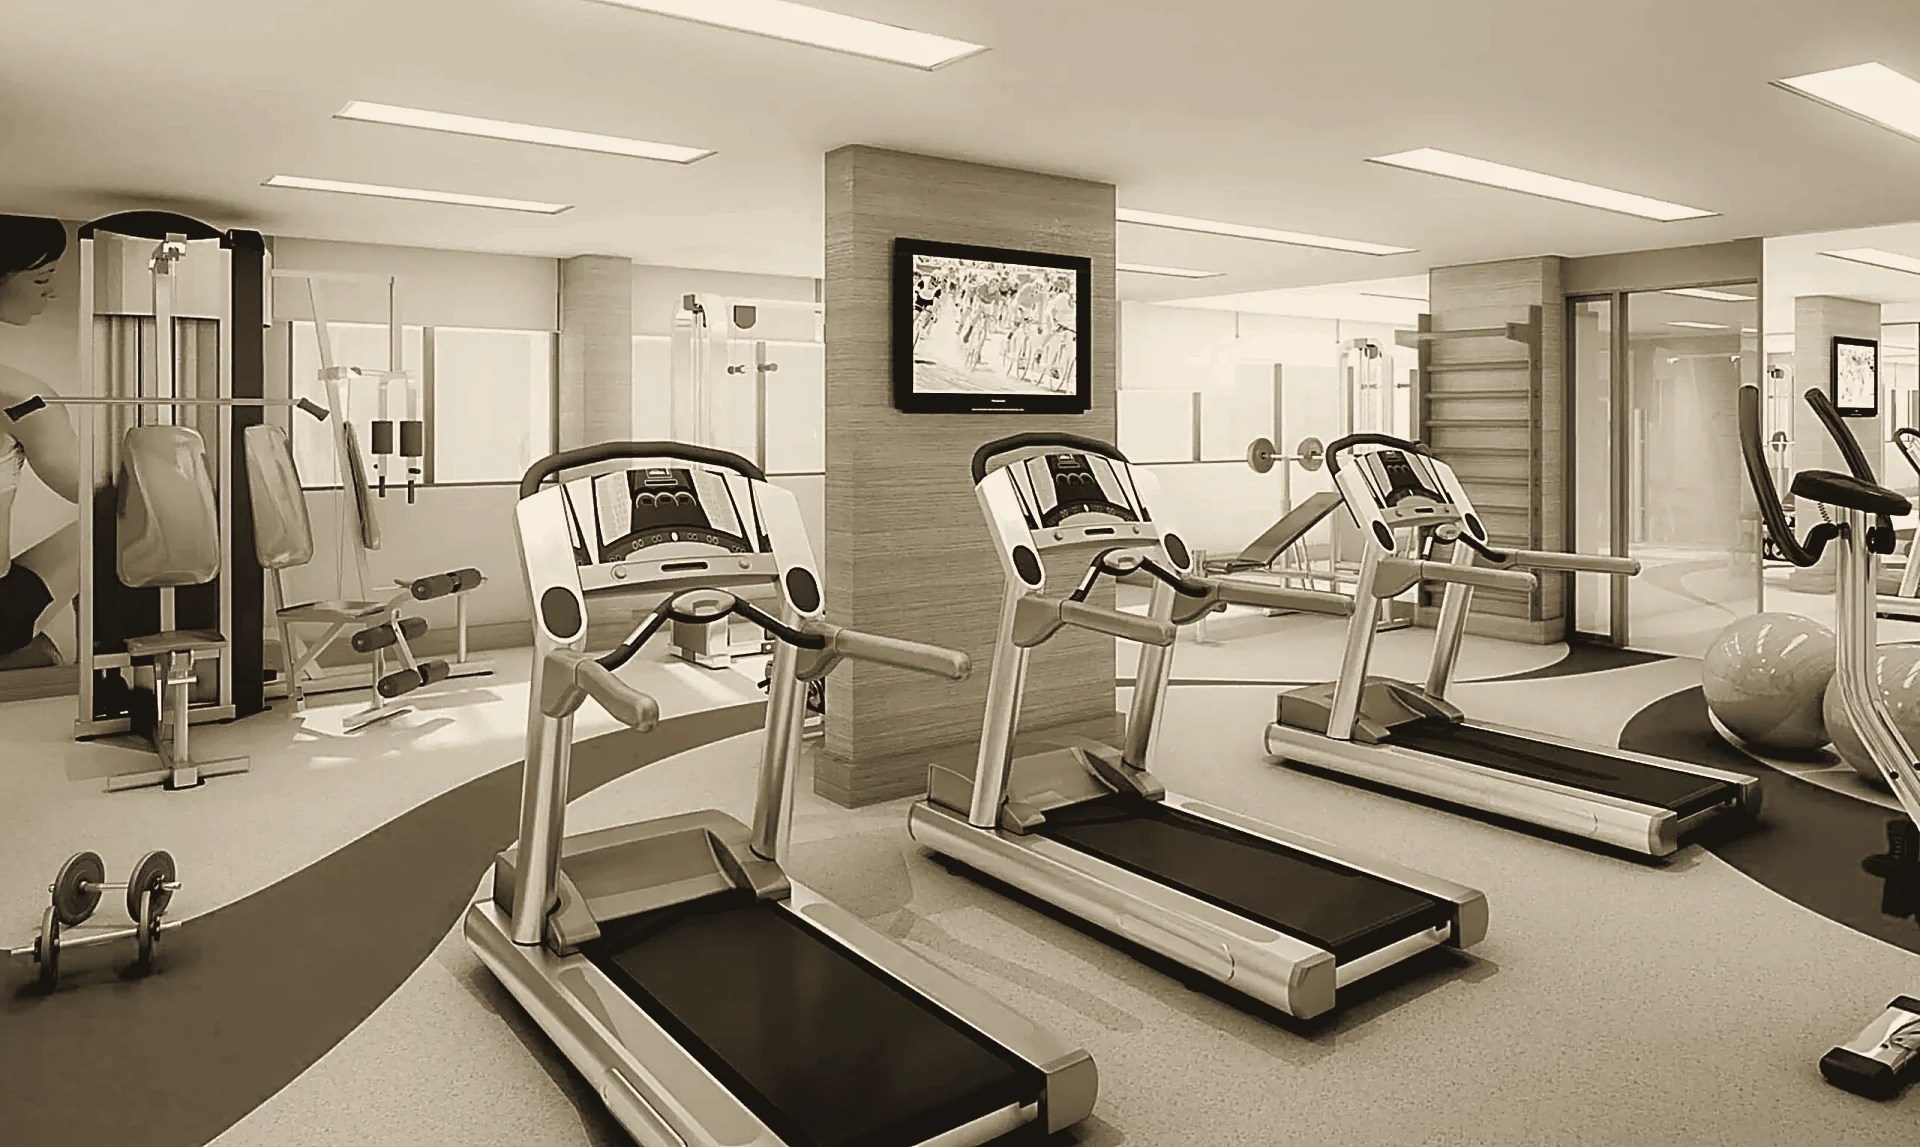
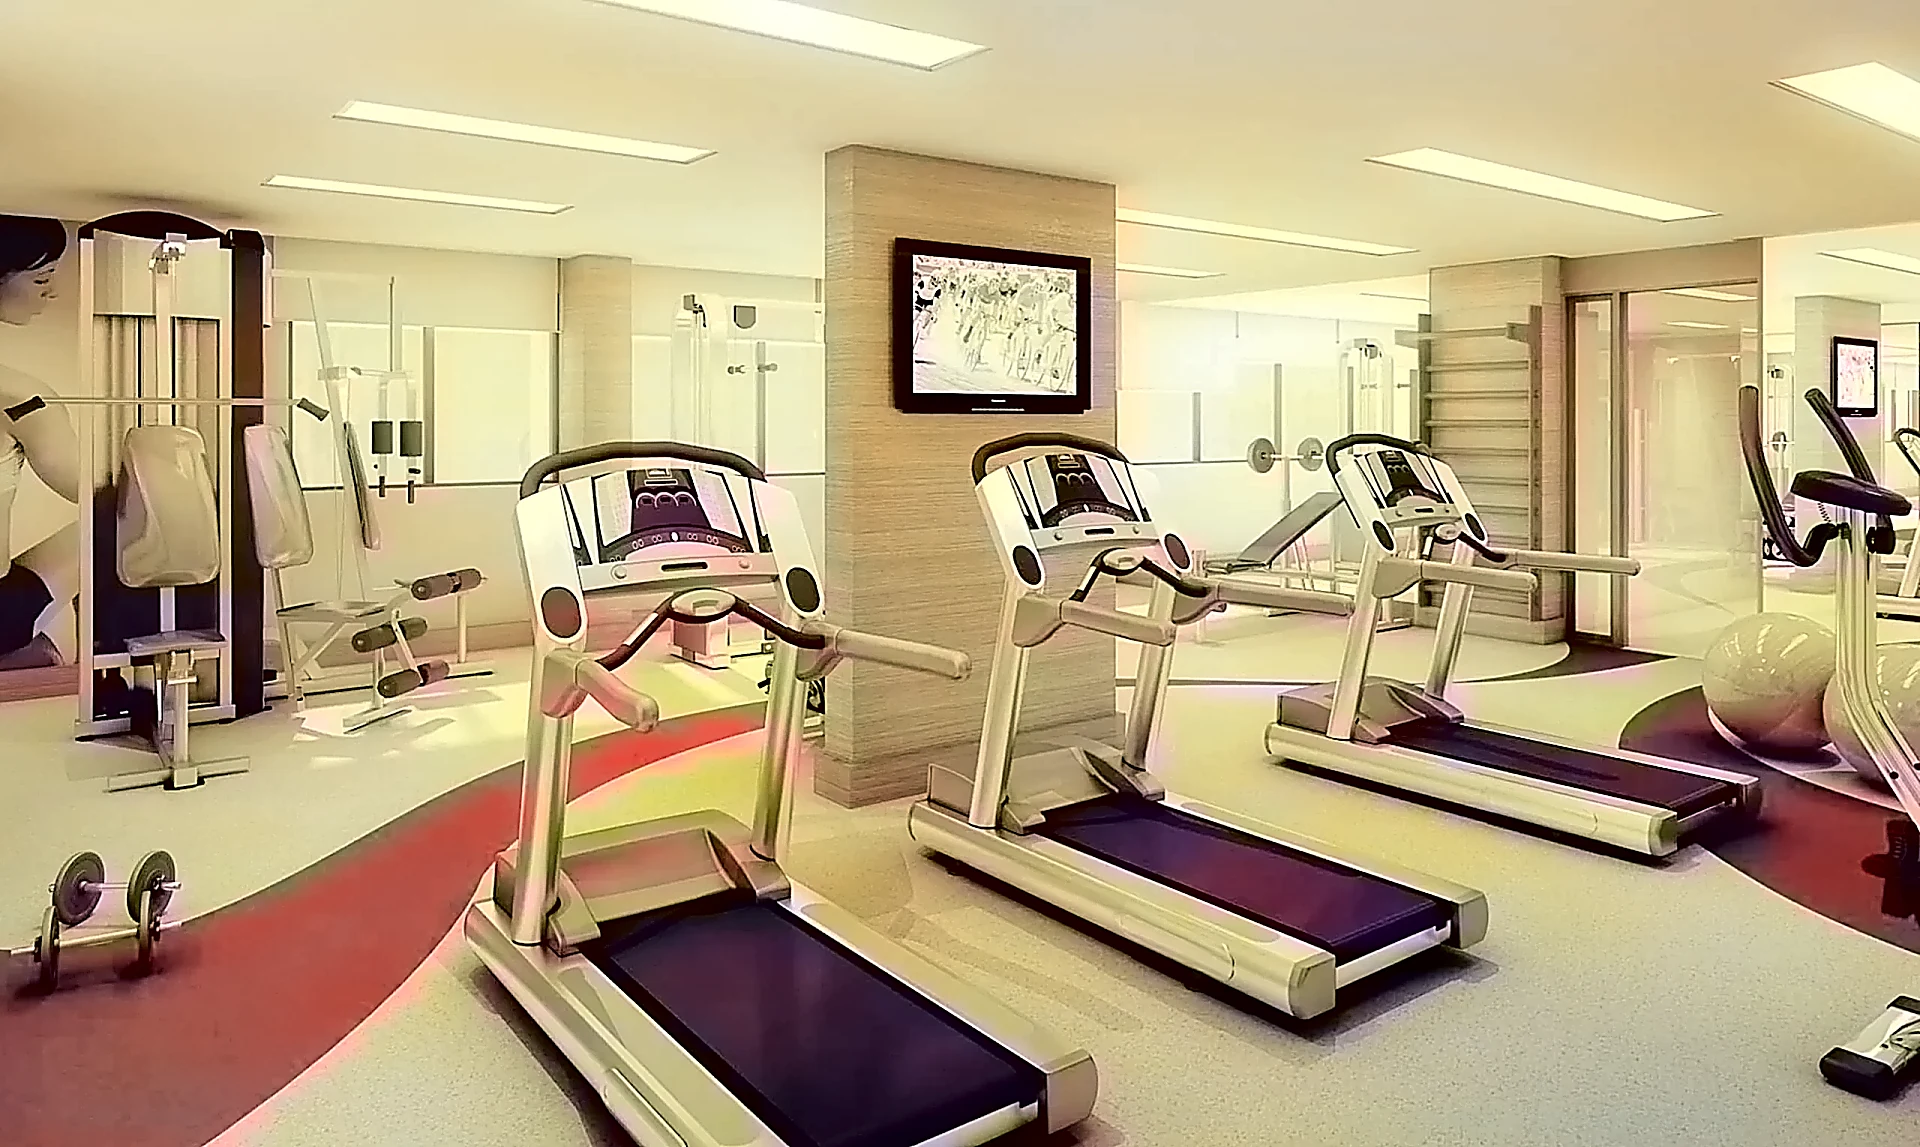
fix: colorização real por IA nas fotos da ROHE + contraste da legenda + 30 anos (#865)
Roberto, 3 pontos concretos:
(1) "o contraste das letras esta quase inelegível" — legenda de cada foto
(fundo quase preto #15130f, texto cinza-acastanhado #7a7266, contraste
~3,9:1) virou texto creme #f8f1e0 em negrito sobre o mesmo fundo escuro
(~17:1, bem acima do mínimo de acessibilidade).
(2) "quero que voce coloque CORES NAS FOTOS, VOCE É UMA IA, tem
conhecimento suficiente pra isso" — baixei e rodei de verdade a rede
neural real de colorização (Zhang et al., ECCV 2016 "Colorful Image
Colorization", export ONNX oficial do projeto learnopencv, SHA256
conferido byte a byte contra o checksum publicado no próprio script deles
— é o modelo real, peer-reviewed, usado até no sample oficial do OpenCV,
não um efeito inventado). Primeira rodada saiu com cores bizarras (rosa/
verde neon) porque eu apliquei um "-50" de mean-centering que só a versão
CAFFE antiga do modelo precisa — achei o bug comparando com o código-fonte
real da implementação PyTorch moderna (mesma arquitetura, mesmo shape
256x256 do meu .onnx) e confirmei que ela NUNCA centraliza o canal L.
Removido o -50 → resultado real: céu azul, grama verde, concreto bege,
tons plausíveis em todas as 6 fotos (limitação conhecida e honesta: carros
e padrões pintados complexos saem com cor menos precisa, fraqueza
documentada desse modelo de 2016 com objetos pintados/metálicos). Texto
de disclosure da galeria atualizado — não é mais "duotone", é colorização
[…]

diff --git a/public/parceiros/rohe/index.html b/public/parceiros/rohe/index.html
@@ -28,7 +28,7 @@
   @media (max-width:760px){.ovc-rohe-gallery{grid-template-columns:repeat(2,1fr);}}
   .ovc-rohe-gallery figure{margin:0;border-radius:10px;overflow:hidden;background:#15130f;}
   .ovc-rohe-gallery img{width:100%;aspect-ratio:4/3;object-fit:cover;display:block;}
-  .ovc-rohe-gallery figcaption{font-size:11px;color:#7a7266;padding:6px 2px 0;}
+  .ovc-rohe-gallery figcaption{font-size:12.5px;font-weight:700;letter-spacing:.01em;color:#f8f1e0;background:#15130f;padding:8px 10px;}
   .ovc-rohe-timeline{list-style:none;margin:14px 0 0;padding:0;display:grid;gap:13px;}
   .ovc-rohe-timeline li{position:relative;padding-left:20px;font-size:13px;line-height:1.5;color:var(--text-soft);}
   .ovc-rohe-timeline li::before{content:"";position:absolute;left:0;top:5px;width:9px;height:9px;border-radius:50%;background:#d9972f;}
@@ -364,7 +364,7 @@
       <p>Unindo a eficiência da gestão moderna com o que há de melhor no conhecimento técnico, a ROHE é especializada na entrega da solução completa para a construção civil nos setores industrial, logístico e corporativo.</p>
       <p>O corpo técnico da ROHE possui vasta experiência no desenvolvimento e na execução de projetos que auxiliam os clientes em todas as etapas do processo de construção de galpões industriais e logísticos, edificações corporativas, entre outros.</p>
       <h2>O que nos molda</h2>
-      <p>A ROHE apresenta uma solução abrangente para quem busca iniciar, expandir ou renovar instalações nos setores industrial, logístico e corporativo. Fundada na expertise de um corpo técnico com mais de 25 anos de experiência na construção de galpões, centros logísticos e edifícios corporativos, a missão da ROHE vai além da simples execução de obras: prioriza compreender as reais necessidades de cada cliente, buscando sempre superar expectativas.</p>
+      <p>A ROHE apresenta uma solução abrangente para quem busca iniciar, expandir ou renovar instalações nos setores industrial, logístico e corporativo. Fundada na expertise de um corpo técnico com mais de 30 anos de experiência na construção de galpões, centros logísticos e edifícios corporativos, a missão da ROHE vai além da simples execução de obras: prioriza compreender as reais necessidades de cada cliente, buscando sempre superar expectativas.</p>
       <p>Além da vasta experiência de campo, a ROHE integra tecnologia de ponta e práticas modernas de gestão para proporcionar tranquilidade, acesso a informações atualizadas e um resultado final que supere as expectativas de cada cliente.</p>
       <h2>Missão, visão e valores</h2>
       <p><strong>Missão:</strong> favorecer e facilitar as possibilidades para a construção, nos setores industriais, logísticos e corporativos.<br><strong>Visão:</strong> ser o principal player no desenvolvimento e execução de projetos industriais, logísticos e corporativos no Brasil.</p>
@@ -404,7 +404,7 @@
           <figcaption>Itatiba Mall</figcaption>
         </figure>
       </div>
-      <p style="font-size:12px;color:var(--text-muted,#9aa0ab);margin-top:8px;">As fotos originais publicadas pela ROHE são em preto e branco — aplicamos apenas realce de nitidez/contraste e um tratamento de cor (duotone) para dar uma identidade visual mais rica à galeria, sem alterar o que elas realmente mostram.</p>
+      <p style="font-size:12px;color:var(--text-muted,#9aa0ab);margin-top:8px;">As fotos originais publicadas pela ROHE são em preto e branco. Para esta galeria, aplicamos realce real de nitidez/contraste e uma colorização por inteligência artificial (rede neural treinada especificamente para estimar cor a partir de fotos em preto e branco) — as cores são uma estimativa plausível feita por IA, não a cor exata registrada no momento de cada foto.</p>
       <h2>Fale com a ROHE</h2>
       <p>O formulário de contato oficial da ROHE funciona direto no site deles — clique abaixo para falar com a equipe.</p>
       <address style="display:flex;gap:10px;flex-wrap:wrap;margin:10px 0 0;">
@@ -419,7 +419,7 @@
       <ul class="ovc-rohe-timeline">
         <li><strong>1ª geração</strong>Pai e filho fundam a empresa, há mais de três décadas.</li>
         <li><strong>Hoje</strong>Filho e neto conduzem a ROHE, lado a lado.</li>
-        <li><strong>+25 anos</strong>de experiência técnica acumulada em obra.</li>
+        <li><strong>+30 anos</strong>de experiência técnica acumulada em obra.</li>
       </ul>
       <div class="ovc-rohe-context">
         <h4>Por que isso importa</h4>
